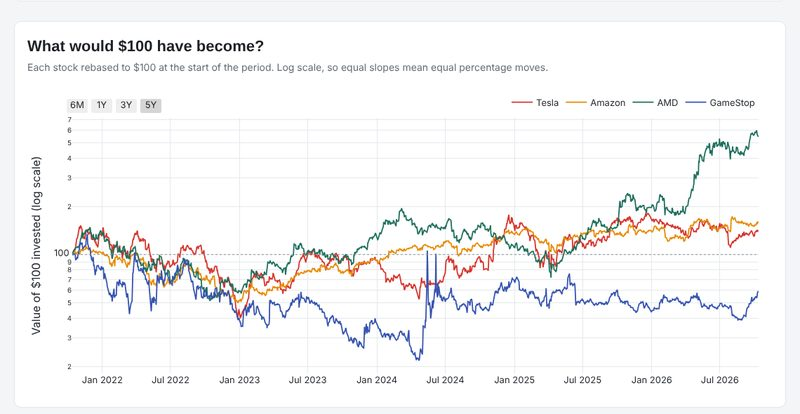
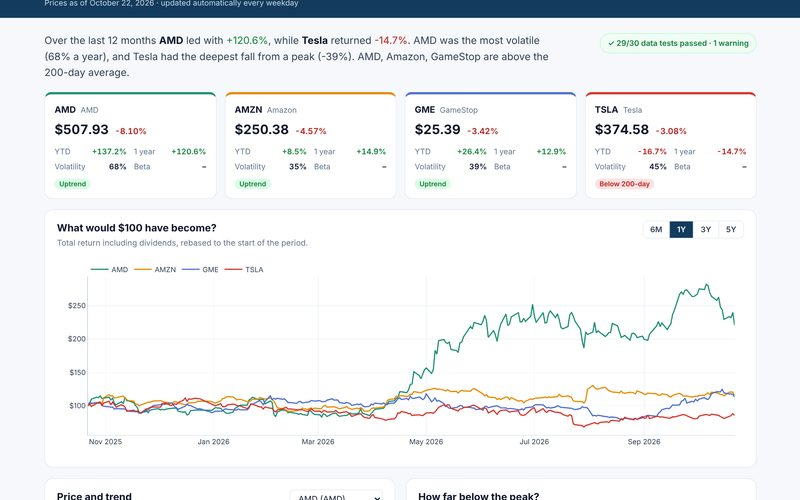
Add Family Safe Player and the stock data pipeline; update movie recommender description
Claude-Session: https://claude.ai/code/session_01LumpLLZr38p52XYoor4yr6

diff --git a/index.html b/index.html
@@ -512,7 +512,25 @@ footer a:hover{color:var(--accent);}
   <div class="sec-ttl">Featured Projects</div>
   <div class="proj-g">
     <div class="proj-card rev-s" style="transition-delay:0s">
-      <div class="proj-img-wrap"><img src="assets/privacy-project.jpg" alt="Visual Privacy Risk Detector" class="proj-img"></div>
+      <div class="proj-img-wrap"><img src="assets/family-safe-project.jpg" alt="Family Safe Player reviewing flagged scenes" class="proj-img" loading="lazy"></div>
+      <div class="proj-body">
+        <div class="proj-ttl">Family Safe Player</div>
+        <div class="proj-desc">Watch movies with family and skip nudity and sex scenes. A MobileNetV2 classifier scans the film in a Web Worker in your browser, hysteresis thresholds turn frame scores into scenes, and a frame-accurate player skips or mutes them. Subtitles mute swearing; a Chrome extension applies skip lists on Netflix and YouTube.</div>
+        <div class="proj-tags"><span class="tag">TypeScript</span><span class="tag">React</span><span class="tag">TensorFlow.js</span><span class="tag">Web Workers</span><span class="tag">Chrome Extension</span></div>
+        <div class="proj-links"><a href="https://phanisrikanth9.github.io/family-safe-player/" target="_blank" class="proj-link">Live Demo <i class="fa-solid fa-arrow-up-right-from-square"></i></a> <a href="https://github.com/phanisrikanth9/family-safe-player" target="_blank" class="proj-link">GitHub <i class="fab fa-github"></i></a></div>
+      </div>
+    </div>
+    <div class="proj-card rev-s" style="transition-delay:0.1s">
+      <div class="proj-img-wrap"><img src="assets/stock-project.jpg" alt="Stock pipeline dashboard" class="proj-img" loading="lazy"></div>
+      <div class="proj-body">
+        <div class="proj-ttl">Stock Performance Data Pipeline</div>
+        <div class="proj-desc">Tested ELT pipeline for Tesla, Amazon, AMD and GameStop vs the S&amp;P 500: incremental, restatement-safe ingestion into Parquet, dbt models on DuckDB, 30 data tests that block bad publishes, and a SQL console that queries the warehouse in your browser. Runs every trading day on GitHub Actions.</div>
+        <div class="proj-tags"><span class="tag">Python</span><span class="tag">dbt</span><span class="tag">DuckDB</span><span class="tag">SQL</span><span class="tag">GitHub Actions</span></div>
+        <div class="proj-links"><a href="https://phanisrikanth9.github.io/Analyzing-Stock-Performance-and-Building-a-Dashboard/" target="_blank" class="proj-link">Live Demo <i class="fa-solid fa-arrow-up-right-from-square"></i></a> <a href="https://github.com/phanisrikanth9/Analyzing-Stock-Performance-and-Building-a-Dashboard" target="_blank" class="proj-link">GitHub <i class="fab fa-github"></i></a></div>
+      </div>
+    </div>
+    <div class="proj-card rev-s" style="transition-delay:0.2s">
+      <div class="proj-img-wrap"><img src="assets/privacy-project.jpg" alt="Visual Privacy Risk Detector" class="proj-img" loading="lazy"></div>
       <div class="proj-body">
         <div class="proj-ttl">Visual Privacy Risk Detection</div>
         <div class="proj-desc">Finds card numbers, Aadhaar, PAN, SSN, phone numbers and passwords in images and blacks them out. Combines a fine-tuned MobileNetV2, OCR, checksum-validated rules and a text classifier. Runs fully in the browser.</div>
@@ -520,32 +538,15 @@ footer a:hover{color:var(--accent);}
         <div class="proj-links"><a href="https://phanisrikanth9.github.io/sensitive_image_detection/" target="_blank" class="proj-link">Live Demo <i class="fa-solid fa-arrow-up-right-from-square"></i></a> <a href="https://github.com/phanisrikanth9/sensitive_image_detection" target="_blank" class="proj-link">GitHub <i class="fab fa-github"></i></a></div>
       </div>
     </div>
-    <div class="proj-card rev-s" style="transition-delay:.1s">
+    <div class="proj-card rev-s" style="transition-delay:0.3s">
       <div class="proj-img-wrap"><img src="assets/movie-project.jpg" alt="Movie recommender showing films similar to Inception" class="proj-img" loading="lazy"></div>
       <div class="proj-body">
         <div class="proj-ttl">Movie Recommendation System</div>
-        <div class="proj-desc">Content-based recommender over 4,800 TMDB movies: plot, genres, keywords, cast and director become bag-of-words vectors, ranked by cosine similarity. Try it in the browser.</div>
-        <div class="proj-tags"><span class="tag">Python</span><span class="tag">Scikit-learn</span><span class="tag">NLP</span><span class="tag">Streamlit</span></div>
+        <div class="proj-desc">Content-based recommender over 4,800 TMDB movies with explained picks. Weighted TF-IDF over genres, director, cast, keywords and plot, cosine similarity, and a vote-weighted quality re-rank. Same-director matches in the top 10 went from 15% to 82%.</div>
+        <div class="proj-tags"><span class="tag">Python</span><span class="tag">scikit-learn</span><span class="tag">TF-IDF</span><span class="tag">NLP</span><span class="tag">Streamlit</span></div>
         <div class="proj-links"><a href="https://phanisrikanth9.github.io/Movie-Recommendation-System/" target="_blank" class="proj-link">Live Demo <i class="fa-solid fa-arrow-up-right-from-square"></i></a> <a href="https://github.com/phanisrikanth9/Movie-Recommendation-System" target="_blank" class="proj-link">GitHub <i class="fab fa-github"></i></a></div>
       </div>
     </div>
-    <div class="proj-card rev-s" style="transition-delay:.2s">
-      <div class="proj-img-wrap"><img src="assets/stock-project.jpg" alt="Stock dashboard performance chart" class="proj-img" loading="lazy"></div>
-      <div class="proj-body">
-        <div class="proj-ttl">Stock Performance Dashboard</div>
-        <div class="proj-desc">Self-updating dashboard for Tesla, Amazon, AMD and GameStop: returns, moving averages, drawdowns, revenue and correlation. A GitHub Action rebuilds it with fresh data every trading day.</div>
-        <div class="proj-tags"><span class="tag">Python</span><span class="tag">Plotly</span><span class="tag">Pandas</span><span class="tag">GitHub Actions</span></div>
-        <div class="proj-links"><a href="https://phanisrikanth9.github.io/Analyzing-Stock-Performance-and-Building-a-Dashboard/" target="_blank" class="proj-link">Live Demo <i class="fa-solid fa-arrow-up-right-from-square"></i></a> <a href="https://github.com/phanisrikanth9/Analyzing-Stock-Performance-and-Building-a-Dashboard" target="_blank" class="proj-link">GitHub <i class="fab fa-github"></i></a></div>
-      </div>
-    </div>
-    <div class="proj-card rev-s" style="transition-delay:.3s">
-      <div class="proj-ph"><i class="fa-solid fa-globe" style="font-size:2.7rem;color:var(--accent);opacity:.5;position:relative;z-index:1"></i></div>
-      <div class="proj-body">
-        <div class="proj-ttl">Personal Portfolio Website</div>
-        <div class="proj-desc">Fully responsive portfolio with particles, 3D tilt cards, magnetic buttons, typewriter effects, light/dark mode, and smooth scroll-triggered animations.</div>
-        <div class="proj-tags"><span class="tag">HTML</span><span class="tag">CSS</span><span class="tag">JavaScript</span><span class="tag">Animations</span></div>
-        <a href="https://phanisrikanth9.github.io/Phani-Portfolio/" target="_blank" class="proj-link">Live Demo <i class="fa-solid fa-arrow-up-right-from-square"></i></a>
-      </div>
     </div>
   </div>
 </section>

diff --git a/README.md b/README.md
@@ -10,9 +10,10 @@ A single static page (HTML, CSS, vanilla JavaScript) with light/dark mode, parti
 
 | Project | Live | Code |
 |---|---|---|
+| Family Safe Player | [demo](https://phanisrikanth9.github.io/family-safe-player/) | [repo](https://github.com/phanisrikanth9/family-safe-player) |
+| Stock Performance Data Pipeline | [dashboard](https://phanisrikanth9.github.io/Analyzing-Stock-Performance-and-Building-a-Dashboard/) | [repo](https://github.com/phanisrikanth9/Analyzing-Stock-Performance-and-Building-a-Dashboard) |
 | Visual Privacy Risk Detector | [demo](https://phanisrikanth9.github.io/sensitive_image_detection/) | [repo](https://github.com/phanisrikanth9/sensitive_image_detection) |
 | Movie Recommendation System | [demo](https://phanisrikanth9.github.io/Movie-Recommendation-System/) | [repo](https://github.com/phanisrikanth9/Movie-Recommendation-System) |
-| Stock Performance Dashboard | [dashboard](https://phanisrikanth9.github.io/Analyzing-Stock-Performance-and-Building-a-Dashboard/) | [repo](https://github.com/phanisrikanth9/Analyzing-Stock-Performance-and-Building-a-Dashboard) |
 
 ## Edit
 
